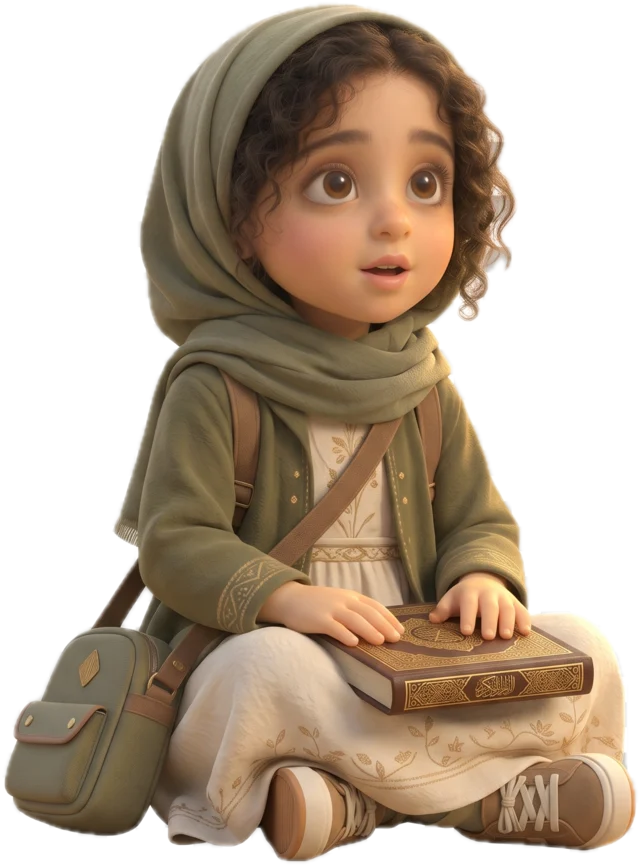
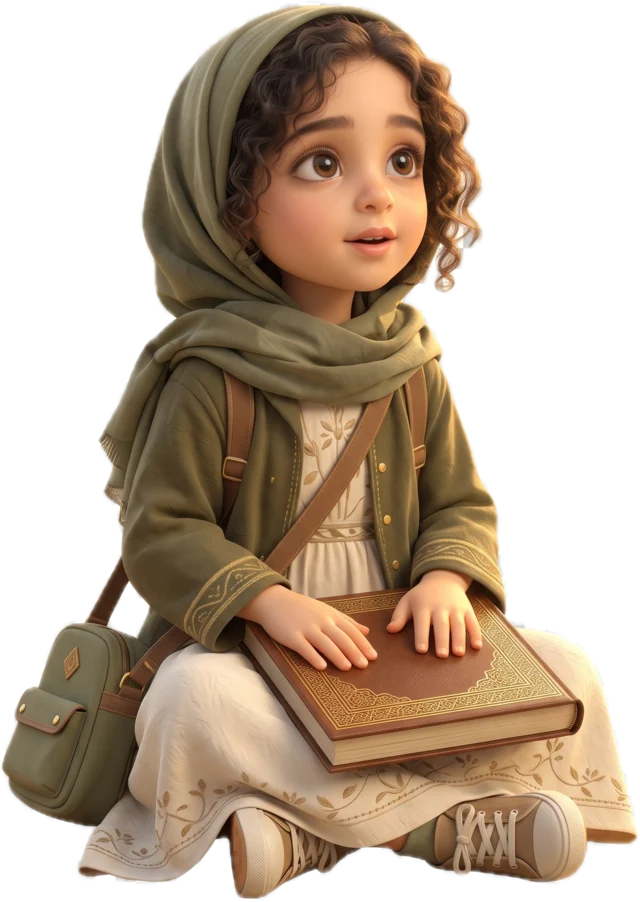
فاطمة «تسمّع»: صورة جديدة، و072.mp3 يفضل زي ما هو
الصورة القديمة كان إبهامها متلوّن برتقالي وأحمر (عيب توليد)، وغلاف المصحف
عليه كتابة «القرآن الكريم» — مخالفة لقاعدة «ممنوع أي كتابة» في بريف الصور.
الجديدة: صوابع نضيفة، وغلاف زخرفة بس. مقصوصة على حدود الشخصية، ونسبتها
0.709 بدل 0.739. علامة Gemini كانت برّه حدود الشخصية فاتشالت مع القص.

TODO: 072.mp3 (الجن) بقى قرارًا — يفضل زي ما هو.

diff --git a/site/client/src/lib/hifz-art.generated.ts b/site/client/src/lib/hifz-art.generated.ts
@@ -92,7 +92,7 @@ export const hifzArt: Record<string, { widths: number[]; ratio: number }> = {
    640,
    960
   ],
-  "ratio": 0.739
+  "ratio": 0.709
  },
  "/hifz-art/characters/fatima/record": {
   "widths": [

diff --git a/TODO.md b/TODO.md
@@ -16,8 +16,8 @@
 
 ## صور
 
-- [ ] **`fatima-recite` تتعاد.** إبهامها متلوّن برتقالي وأحمر — عيب توليد. الوضع نفسه
-      صح والصورة معروضة لحد ما تيجي نضيفة. البرومبت في بريف `صور-رحلة-الحفظ`.
+- [x] **`fatima-recite` اتعادت** (٢٣ سبتمبر). صوابعها نضيفة، وغلاف المصحف زخرفة بس من
+      غير كتابة (القديمة كان عليها «القرآن الكريم»، مخالفة لقاعدة «ممنوع أي كتابة»).
 
 - [ ] **صور الترحيب (٣) وأيقونة التطبيق وشاشة الفتح.** **محتاجة قرارًا الأول:** أنهي
       تلات لحظات تحكيها الشاشات التلاتة. مرجع فاطمة معتمد فمفيش مانع تقني.
@@ -55,7 +55,8 @@
       `seerah-legacy-ar.ts` كنقطة بداية. وقصص المحطات ٧–٩ قصيرة (~١٠٠ كلمة، فقرة
       واحدة) مقارنة بالمحطات ١–٦ — تستاهل تتوسّع.
 
-- [ ] **`072.mp3`** (الجن) فيه إطاران تالفان عند ٣:٢٠ على R2. مستني ملفًا معاد تنزيله.
+- [x] **`072.mp3`** (الجن) فيه إطاران تالفان عند ٣:٢٠ على R2. **قرار ٢٣ سبتمبر: يفضل زي
+      ما هو.** ما حدش يستبدله من غير ما صاحب المشروع يطلب.
 
 - [ ] **النسخة الاحتياطية (`exportBackup`/`importBackup`) مالهاش اكتشافات «في رحاب
       القرآن».** اتلاحظ أثناء مهمة تنفيذ ٤ (نشاط الطفل لوليّ الأمر، ٢٣ سبتمبر):
